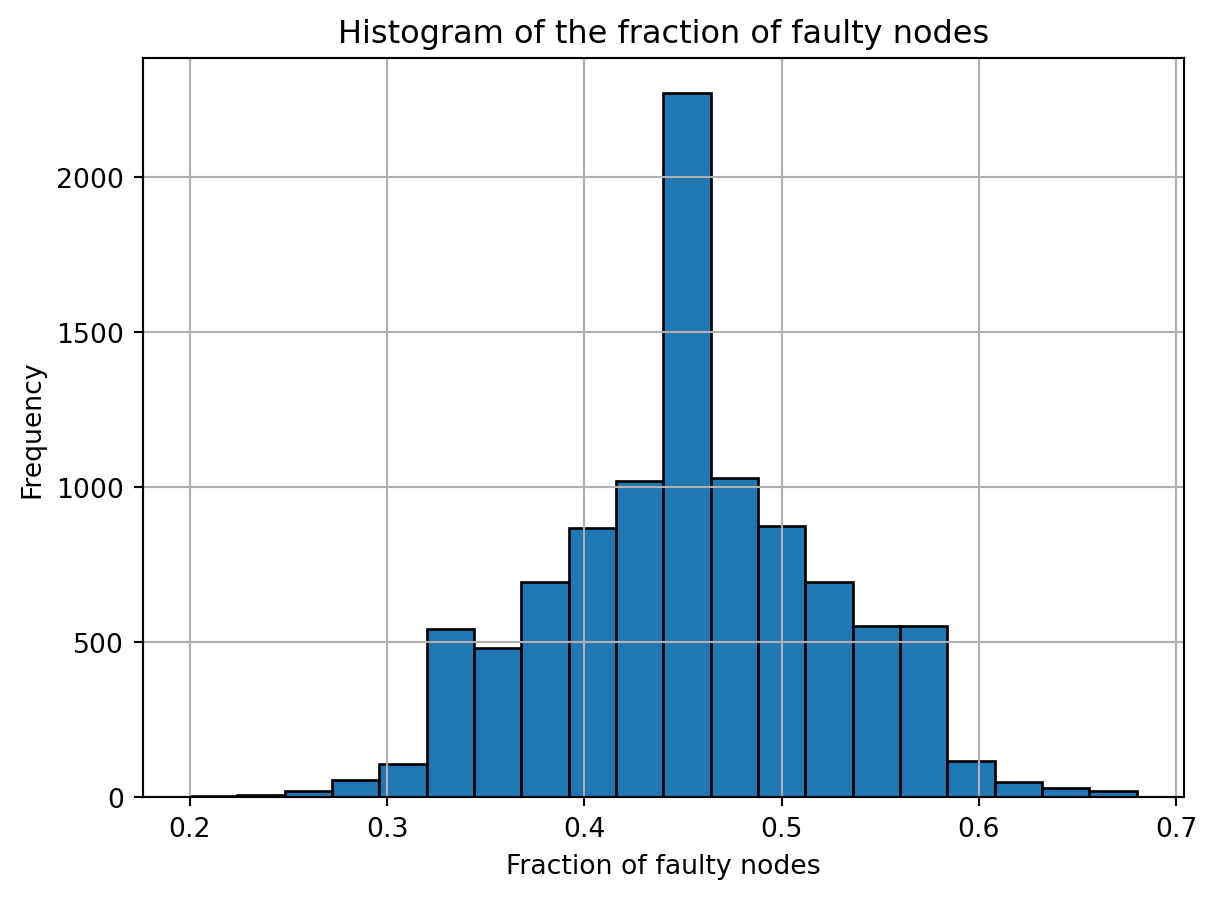
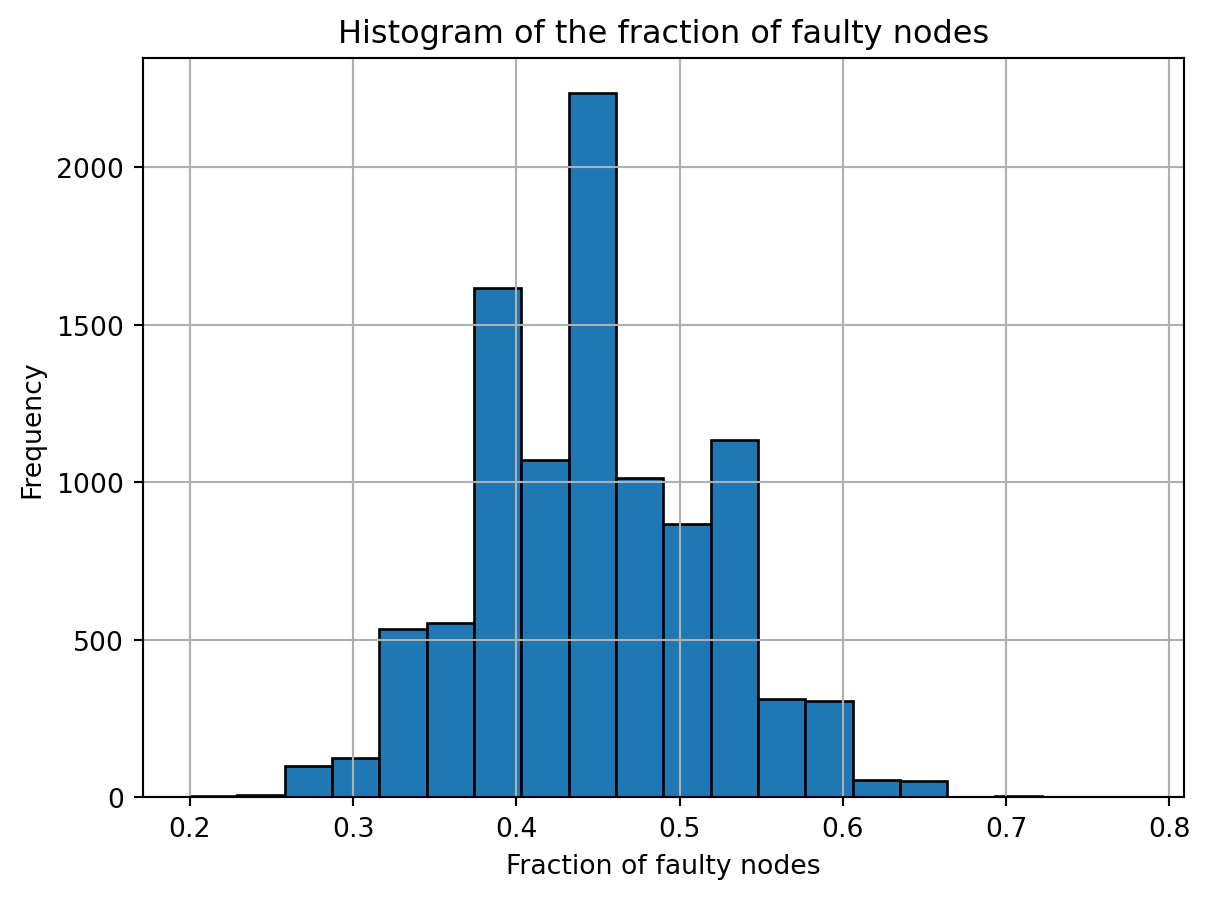
Add files via upload

diff --git a/08-tullock-contest.html b/08-tullock-contest.html
@@ -349,7 +349,7 @@ g_2(x) = 2 \cdot \frac{x}{8/9 + x} - x
   background-color: #ffffff;
 }
 </style>
-<div id="5496cd93" class="cell" data-execution_count="1">
+<div id="2f977c10" class="cell" data-execution_count="1">
 <details class="code-fold">
 <summary>Show code generating the plot below</summary>
 <div class="sourceCode cell-code" id="cb1"><pre class="sourceCode python code-with-copy"><code class="sourceCode python"><span id="cb1-1"><a href="#cb1-1" aria-hidden="true" tabindex="-1"></a><span class="im">import</span> numpy <span class="im">as</span> np</span>
@@ -395,24 +395,26 @@ g_2(x) = 2 \cdot \frac{x}{8/9 + x} - x
 <span id="cb1-41"><a href="#cb1-41" aria-hidden="true" tabindex="-1"></a></span>
 <span id="cb1-42"><a href="#cb1-42" aria-hidden="true" tabindex="-1"></a><span class="co"># Plot functions and maxima</span></span>
 <span id="cb1-43"><a href="#cb1-43" aria-hidden="true" tabindex="-1"></a>plt.plot(x, y1, label<span class="op">=</span><span class="vs">r"$g_1(x) = 4x/(x + 4/9) - x$"</span>, color<span class="op">=</span><span class="st">'blue'</span>)</span>
-<span id="cb1-44"><a href="#cb1-44" aria-hidden="true" tabindex="-1"></a>plt.axvline(x_max_g1, color<span class="op">=</span><span class="st">'blue'</span>, linestyle<span class="op">=</span><span class="st">'--'</span>, label<span class="op">=</span><span class="ss">f"Max. of $g_1$ at x = </span><span class="sc">{</span>x_max_g1<span class="sc">:.2f}</span><span class="ss">"</span>)</span>
-<span id="cb1-45"><a href="#cb1-45" aria-hidden="true" tabindex="-1"></a></span>
-<span id="cb1-46"><a href="#cb1-46" aria-hidden="true" tabindex="-1"></a>plt.plot(x, y2, label<span class="op">=</span><span class="vs">r"$g_2(x) =  2x/(x + 8/9) - x$"</span>, color<span class="op">=</span><span class="st">'red'</span>)</span>
-<span id="cb1-47"><a href="#cb1-47" aria-hidden="true" tabindex="-1"></a>plt.axvline(x_max_g2, color<span class="op">=</span><span class="st">'red'</span>, linestyle<span class="op">=</span><span class="st">'--'</span>, label<span class="op">=</span><span class="ss">f"Max. of $g_2$ at x = </span><span class="sc">{</span>x_max_g2<span class="sc">:.2f}</span><span class="ss">"</span>)</span>
-<span id="cb1-48"><a href="#cb1-48" aria-hidden="true" tabindex="-1"></a></span>
-<span id="cb1-49"><a href="#cb1-49" aria-hidden="true" tabindex="-1"></a><span class="co"># Add titles and labels</span></span>
-<span id="cb1-50"><a href="#cb1-50" aria-hidden="true" tabindex="-1"></a>plt.title(<span class="st">"Plots of best response functions $g_1(x)$ and $g_2(x)$"</span>)</span>
-<span id="cb1-51"><a href="#cb1-51" aria-hidden="true" tabindex="-1"></a>plt.xlabel(<span class="st">"x"</span>)</span>
-<span id="cb1-52"><a href="#cb1-52" aria-hidden="true" tabindex="-1"></a>plt.ylabel(<span class="ss">f"$g_i(x)$"</span>)</span>
-<span id="cb1-53"><a href="#cb1-53" aria-hidden="true" tabindex="-1"></a>plt.xlim(<span class="dv">0</span>,<span class="dv">4</span>)</span>
-<span id="cb1-54"><a href="#cb1-54" aria-hidden="true" tabindex="-1"></a>plt.ylim(<span class="op">-</span><span class="dv">1</span>,<span class="dv">2</span>)</span>
-<span id="cb1-55"><a href="#cb1-55" aria-hidden="true" tabindex="-1"></a>plt.legend()</span>
-<span id="cb1-56"><a href="#cb1-56" aria-hidden="true" tabindex="-1"></a>plt.xticks([<span class="dv">0</span>,<span class="dv">1</span>,<span class="dv">2</span>,<span class="dv">3</span>,<span class="dv">4</span>])</span>
-<span id="cb1-57"><a href="#cb1-57" aria-hidden="true" tabindex="-1"></a>plt.yticks([<span class="op">-</span><span class="dv">1</span>,<span class="dv">0</span>,<span class="dv">1</span>,<span class="dv">2</span>])</span>
-<span id="cb1-58"><a href="#cb1-58" aria-hidden="true" tabindex="-1"></a></span>
-<span id="cb1-59"><a href="#cb1-59" aria-hidden="true" tabindex="-1"></a><span class="co"># Show the plot</span></span>
-<span id="cb1-60"><a href="#cb1-60" aria-hidden="true" tabindex="-1"></a>plt.grid(<span class="va">True</span>)</span>
-<span id="cb1-61"><a href="#cb1-61" aria-hidden="true" tabindex="-1"></a>plt.show()</span></code><button title="Copy to Clipboard" class="code-copy-button"><i class="bi"></i></button></pre></div>
+<span id="cb1-44"><a href="#cb1-44" aria-hidden="true" tabindex="-1"></a>plt.axvline(x_max_g1, color<span class="op">=</span><span class="st">'blue'</span>, linestyle<span class="op">=</span><span class="st">'--'</span>,</span>
+<span id="cb1-45"><a href="#cb1-45" aria-hidden="true" tabindex="-1"></a>                label<span class="op">=</span><span class="ss">f"Max. of $g_1$ at x = </span><span class="sc">{</span>x_max_g1<span class="sc">:.2f}</span><span class="ss">"</span>)</span>
+<span id="cb1-46"><a href="#cb1-46" aria-hidden="true" tabindex="-1"></a></span>
+<span id="cb1-47"><a href="#cb1-47" aria-hidden="true" tabindex="-1"></a>plt.plot(x, y2, label<span class="op">=</span><span class="vs">r"$g_2(x) =  2x/(x + 8/9) - x$"</span>, color<span class="op">=</span><span class="st">'red'</span>)</span>
+<span id="cb1-48"><a href="#cb1-48" aria-hidden="true" tabindex="-1"></a>plt.axvline(x_max_g2, color<span class="op">=</span><span class="st">'red'</span>, linestyle<span class="op">=</span><span class="st">'--'</span>, </span>
+<span id="cb1-49"><a href="#cb1-49" aria-hidden="true" tabindex="-1"></a>                label<span class="op">=</span><span class="ss">f"Max. of $g_2$ at x = </span><span class="sc">{</span>x_max_g2<span class="sc">:.2f}</span><span class="ss">"</span>)</span>
+<span id="cb1-50"><a href="#cb1-50" aria-hidden="true" tabindex="-1"></a></span>
+<span id="cb1-51"><a href="#cb1-51" aria-hidden="true" tabindex="-1"></a><span class="co"># Add titles and labels</span></span>
+<span id="cb1-52"><a href="#cb1-52" aria-hidden="true" tabindex="-1"></a>plt.title(<span class="st">"Plots of best response functions $g_1(x)$ and $g_2(x)$"</span>)</span>
+<span id="cb1-53"><a href="#cb1-53" aria-hidden="true" tabindex="-1"></a>plt.xlabel(<span class="st">"x"</span>)</span>
+<span id="cb1-54"><a href="#cb1-54" aria-hidden="true" tabindex="-1"></a>plt.ylabel(<span class="ss">f"$g_i(x)$"</span>)</span>
+<span id="cb1-55"><a href="#cb1-55" aria-hidden="true" tabindex="-1"></a>plt.xlim(<span class="dv">0</span>,<span class="dv">4</span>)</span>
+<span id="cb1-56"><a href="#cb1-56" aria-hidden="true" tabindex="-1"></a>plt.ylim(<span class="op">-</span><span class="dv">1</span>,<span class="dv">2</span>)</span>
+<span id="cb1-57"><a href="#cb1-57" aria-hidden="true" tabindex="-1"></a>plt.legend()</span>
+<span id="cb1-58"><a href="#cb1-58" aria-hidden="true" tabindex="-1"></a>plt.xticks([<span class="dv">0</span>,<span class="dv">1</span>,<span class="dv">2</span>,<span class="dv">3</span>,<span class="dv">4</span>])</span>
+<span id="cb1-59"><a href="#cb1-59" aria-hidden="true" tabindex="-1"></a>plt.yticks([<span class="op">-</span><span class="dv">1</span>,<span class="dv">0</span>,<span class="dv">1</span>,<span class="dv">2</span>])</span>
+<span id="cb1-60"><a href="#cb1-60" aria-hidden="true" tabindex="-1"></a></span>
+<span id="cb1-61"><a href="#cb1-61" aria-hidden="true" tabindex="-1"></a><span class="co"># Show the plot</span></span>
+<span id="cb1-62"><a href="#cb1-62" aria-hidden="true" tabindex="-1"></a>plt.grid(<span class="va">True</span>)</span>
+<span id="cb1-63"><a href="#cb1-63" aria-hidden="true" tabindex="-1"></a>plt.show()</span></code><button title="Copy to Clipboard" class="code-copy-button"><i class="bi"></i></button></pre></div>
 </details>
 <div class="cell-output cell-output-display">
 <div class="quarto-figure quarto-figure-center">

diff --git a/05-LongestChain.html b/05-LongestChain.html
@@ -624,7 +624,7 @@ Case ii) is essentially a generalization of case i): suppose that the integer $K
 </ul>
 <p>Can we turn this “on expectation” statement into a “with high probability” statement? To gain some intuition, you are invited to experiment with different values of <span class="math inline">\alpha</span> and <span class="math inline">K</span>, using the Python code snippets below.</p>
 <p>To create one such leader sequence, use the following code:</p>
-<div id="6716abb4" class="cell" data-execution_count="1">
+<div id="87d1ca76" class="cell" data-execution_count="1">
 <details class="code-fold">
 <summary>Code</summary>
 <div class="sourceCode cell-code" id="cb2"><pre class="sourceCode python code-with-copy"><code class="sourceCode python"><span id="cb2-1"><a href="#cb2-1" aria-hidden="true" tabindex="-1"></a><span class="im">import</span> numpy <span class="im">as</span> np</span>
@@ -646,7 +646,7 @@ Case ii) is essentially a generalization of case i): suppose that the integer $K
 <span id="cb2-17"><a href="#cb2-17" aria-hidden="true" tabindex="-1"></a>    <span class="cf">return</span> samples</span></code><button title="Copy to Clipboard" class="code-copy-button"><i class="bi"></i></button></pre></div>
 </details>
 </div>
-<div id="c42c14d8" class="cell" data-execution_count="2">
+<div id="b7863e1c" class="cell" data-execution_count="2">
 <div class="sourceCode cell-code" id="cb3"><pre class="sourceCode python code-with-copy"><code class="sourceCode python"><span id="cb3-1"><a href="#cb3-1" aria-hidden="true" tabindex="-1"></a><span class="co"># Example usage:</span></span>
 <span id="cb3-2"><a href="#cb3-2" aria-hidden="true" tabindex="-1"></a>K <span class="op">=</span> <span class="dv">10</span>      <span class="co"># number of leaders</span></span>
 <span id="cb3-3"><a href="#cb3-3" aria-hidden="true" tabindex="-1"></a>alpha <span class="op">=</span> <span class="fl">0.45</span> <span class="co"># probability of leader being faulty</span></span>
@@ -655,12 +655,12 @@ Case ii) is essentially a generalization of case i): suppose that the integer $K
 <span id="cb3-6"><a href="#cb3-6" aria-hidden="true" tabindex="-1"></a></span>
 <span id="cb3-7"><a href="#cb3-7" aria-hidden="true" tabindex="-1"></a><span class="bu">print</span>(<span class="st">"Fraction of faulty leaders:"</span>, np.<span class="bu">sum</span>(samples)<span class="op">/</span>K)</span></code><button title="Copy to Clipboard" class="code-copy-button"><i class="bi"></i></button></pre></div>
 <div class="cell-output cell-output-stdout">
-<pre><code>Sampled leaders: [0 0 0 0 0 1 0 1 0 1]
-Fraction of faulty leaders: 0.3</code></pre>
+<pre><code>Sampled leaders: [0 0 0 0 1 1 1 1 0 0]
+Fraction of faulty leaders: 0.4</code></pre>
 </div>
 </div>
 <p>If you run the above code several times, you will see that the outcome varies a bit. The following code allows you to run the process <span class="math inline">T</span> times and create a histogram of the fractions of faulty nodes.</p>
-<div id="f98ab59f" class="cell" data-execution_count="3">
+<div id="1b89769b" class="cell" data-execution_count="3">
 <details class="code-fold">
 <summary>Code</summary>
 <div class="sourceCode cell-code" id="cb5"><pre class="sourceCode python code-with-copy"><code class="sourceCode python"><span id="cb5-1"><a href="#cb5-1" aria-hidden="true" tabindex="-1"></a><span class="kw">def</span> sample_T_sequences(T, K, alpha):</span>
@@ -699,7 +699,7 @@ Fraction of faulty leaders: 0.3</code></pre>
   background-color: #ffffff;
 }
 </style>
-<div id="ef5f2f09" class="cell" data-execution_count="4">
+<div id="12cda65b" class="cell" data-execution_count="4">
 <div class="sourceCode cell-code" id="cb6"><pre class="sourceCode python code-with-copy"><code class="sourceCode python"><span id="cb6-1"><a href="#cb6-1" aria-hidden="true" tabindex="-1"></a><span class="co"># Example usage:</span></span>
 <span id="cb6-2"><a href="#cb6-2" aria-hidden="true" tabindex="-1"></a>T <span class="op">=</span> <span class="dv">10000</span>     <span class="co"># Number of leader sequences</span></span>
 <span id="cb6-3"><a href="#cb6-3" aria-hidden="true" tabindex="-1"></a>K <span class="op">=</span> <span class="dv">50</span>       <span class="co"># Number of leaders per sequence</span></span>
@@ -713,12 +713,12 @@ Fraction of faulty leaders: 0.3</code></pre>
 <span id="cb6-11"><a href="#cb6-11" aria-hidden="true" tabindex="-1"></a><span class="co"># Plot the histogram of fractions</span></span>
 <span id="cb6-12"><a href="#cb6-12" aria-hidden="true" tabindex="-1"></a>plot_histogram(fractions)</span></code><button title="Copy to Clipboard" class="code-copy-button"><i class="bi"></i></button></pre></div>
 <div class="cell-output cell-output-stdout">
-<pre><code>The fraction of leader sequences that are balanced is: 0.7105</code></pre>
+<pre><code>The fraction of leader sequences that are balanced is: 0.7263</code></pre>
 </div>
 <div class="cell-output cell-output-display">
 <div class="quarto-figure quarto-figure-center">
 <figure class="figure">
-<p><img src="05-LongestChain_files/figure-html/cell-5-output-2.png" class="quarto-figure quarto-figure-center figure-img" width="608" height="449"></p>
+<p><img src="05-LongestChain_files/figure-html/cell-5-output-2.png" class="quarto-figure quarto-figure-center figure-img" width="605" height="449"></p>
 </figure>
 </div>
 </div>

diff --git a/06-ProofofWork.html b/06-ProofofWork.html
@@ -322,14 +322,14 @@ window.Quarto = {
 <h2 data-number="6.3" class="anchored" data-anchor-id="sha-256"><span class="header-section-number">6.3</span> SHA-256</h2>
 <p>Here we give a brief illustration of how hashing works. We will use as example the SHA-256 hash function. SHA stands for Secure Hash Algorithm. The number 256 refers to the number of bits of the output.</p>
 <p>We will use the python <code>hashlib</code> module, which we first need to import.</p>
-<div id="ebefe045" class="cell" data-execution_count="1">
+<div id="03b9175b" class="cell" data-execution_count="1">
 <details class="code-fold">
 <summary>Code</summary>
 <div class="sourceCode cell-code" id="cb1"><pre class="sourceCode python code-with-copy"><code class="sourceCode python"><span id="cb1-1"><a href="#cb1-1" aria-hidden="true" tabindex="-1"></a><span class="im">import</span> hashlib</span></code><button title="Copy to Clipboard" class="code-copy-button"><i class="bi"></i></button></pre></div>
 </details>
 </div>
 <p>Here is an example of how to use SHA256 to hash a short message. The input message will be ``Decentralized finance is cool!’’ and the output is a bitstring of length 256.</p>
-<div id="0cf7767a" class="cell" data-execution_count="2">
+<div id="beb36a7e" class="cell" data-execution_count="2">
 <div class="sourceCode cell-code" id="cb2"><pre class="sourceCode python code-with-copy"><code class="sourceCode python"><span id="cb2-1"><a href="#cb2-1" aria-hidden="true" tabindex="-1"></a><span class="co"># The message to hash</span></span>
 <span id="cb2-2"><a href="#cb2-2" aria-hidden="true" tabindex="-1"></a>message <span class="op">=</span> <span class="st">"Decentralized finance is cool!"</span></span>
 <span id="cb2-3"><a href="#cb2-3" aria-hidden="true" tabindex="-1"></a></span>
@@ -349,7 +349,7 @@ Length of the bitstring: 256</code></pre>
 </div>
 </div>
 <p>Let us now investigate the key property of hash functions: they look like a random function. In particular, this implies that it is hard to predict the output of the function. To illustrate this, let us hash a second message that is very similar to the first: ``Decentralized finance is cool!!!’’</p>
-<div id="2c6297d0" class="cell" data-execution_count="3">
+<div id="d17421c8" class="cell" data-execution_count="3">
 <details class="code-fold">
 <summary>Code</summary>
 <div class="sourceCode cell-code" id="cb4"><pre class="sourceCode python code-with-copy"><code class="sourceCode python"><span id="cb4-1"><a href="#cb4-1" aria-hidden="true" tabindex="-1"></a><span class="co">### Second message </span></span>
@@ -372,7 +372,7 @@ Length of the bitstring: 256</code></pre>
 </div>
 </div>
 <p>If you compare the two strings, you will notice some differences right away. How different are the two strings? If the hash function assigns a random output to every input, then you would expect the two bitstrings to differ in roughly half their entries. Let us use python to count the number of different entries in the two strings.</p>
-<div id="9eff5a5c" class="cell" data-execution_count="4">
+<div id="9b1529b9" class="cell" data-execution_count="4">
 <details class="code-fold">
 <summary>Code</summary>
 <div class="sourceCode cell-code" id="cb6"><pre class="sourceCode python code-with-copy"><code class="sourceCode python"><span id="cb6-1"><a href="#cb6-1" aria-hidden="true" tabindex="-1"></a><span class="kw">def</span> count_differences(bitstring1, bitstring2):</span>
